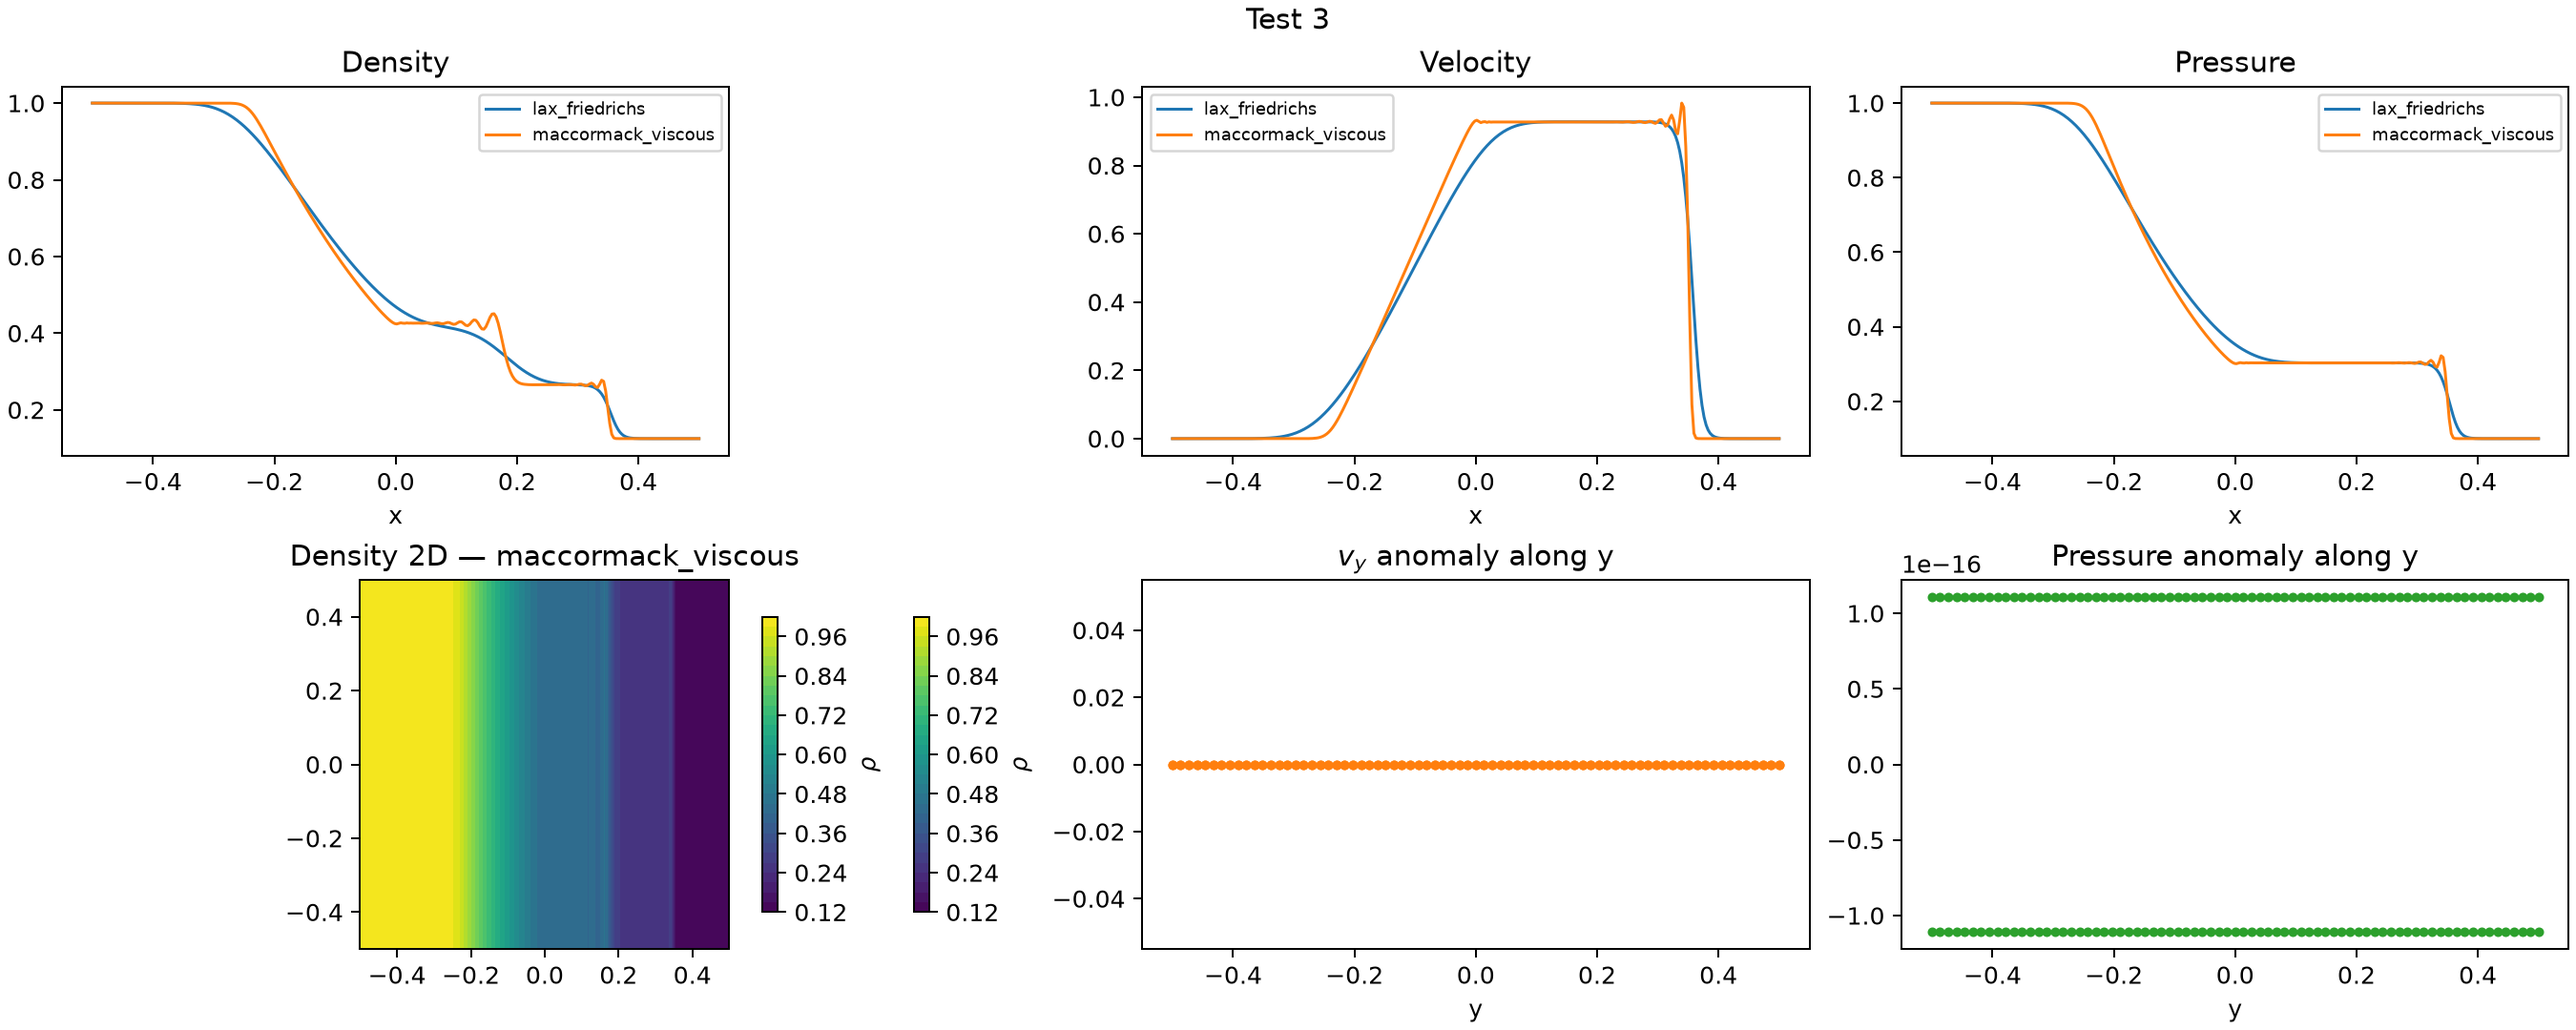
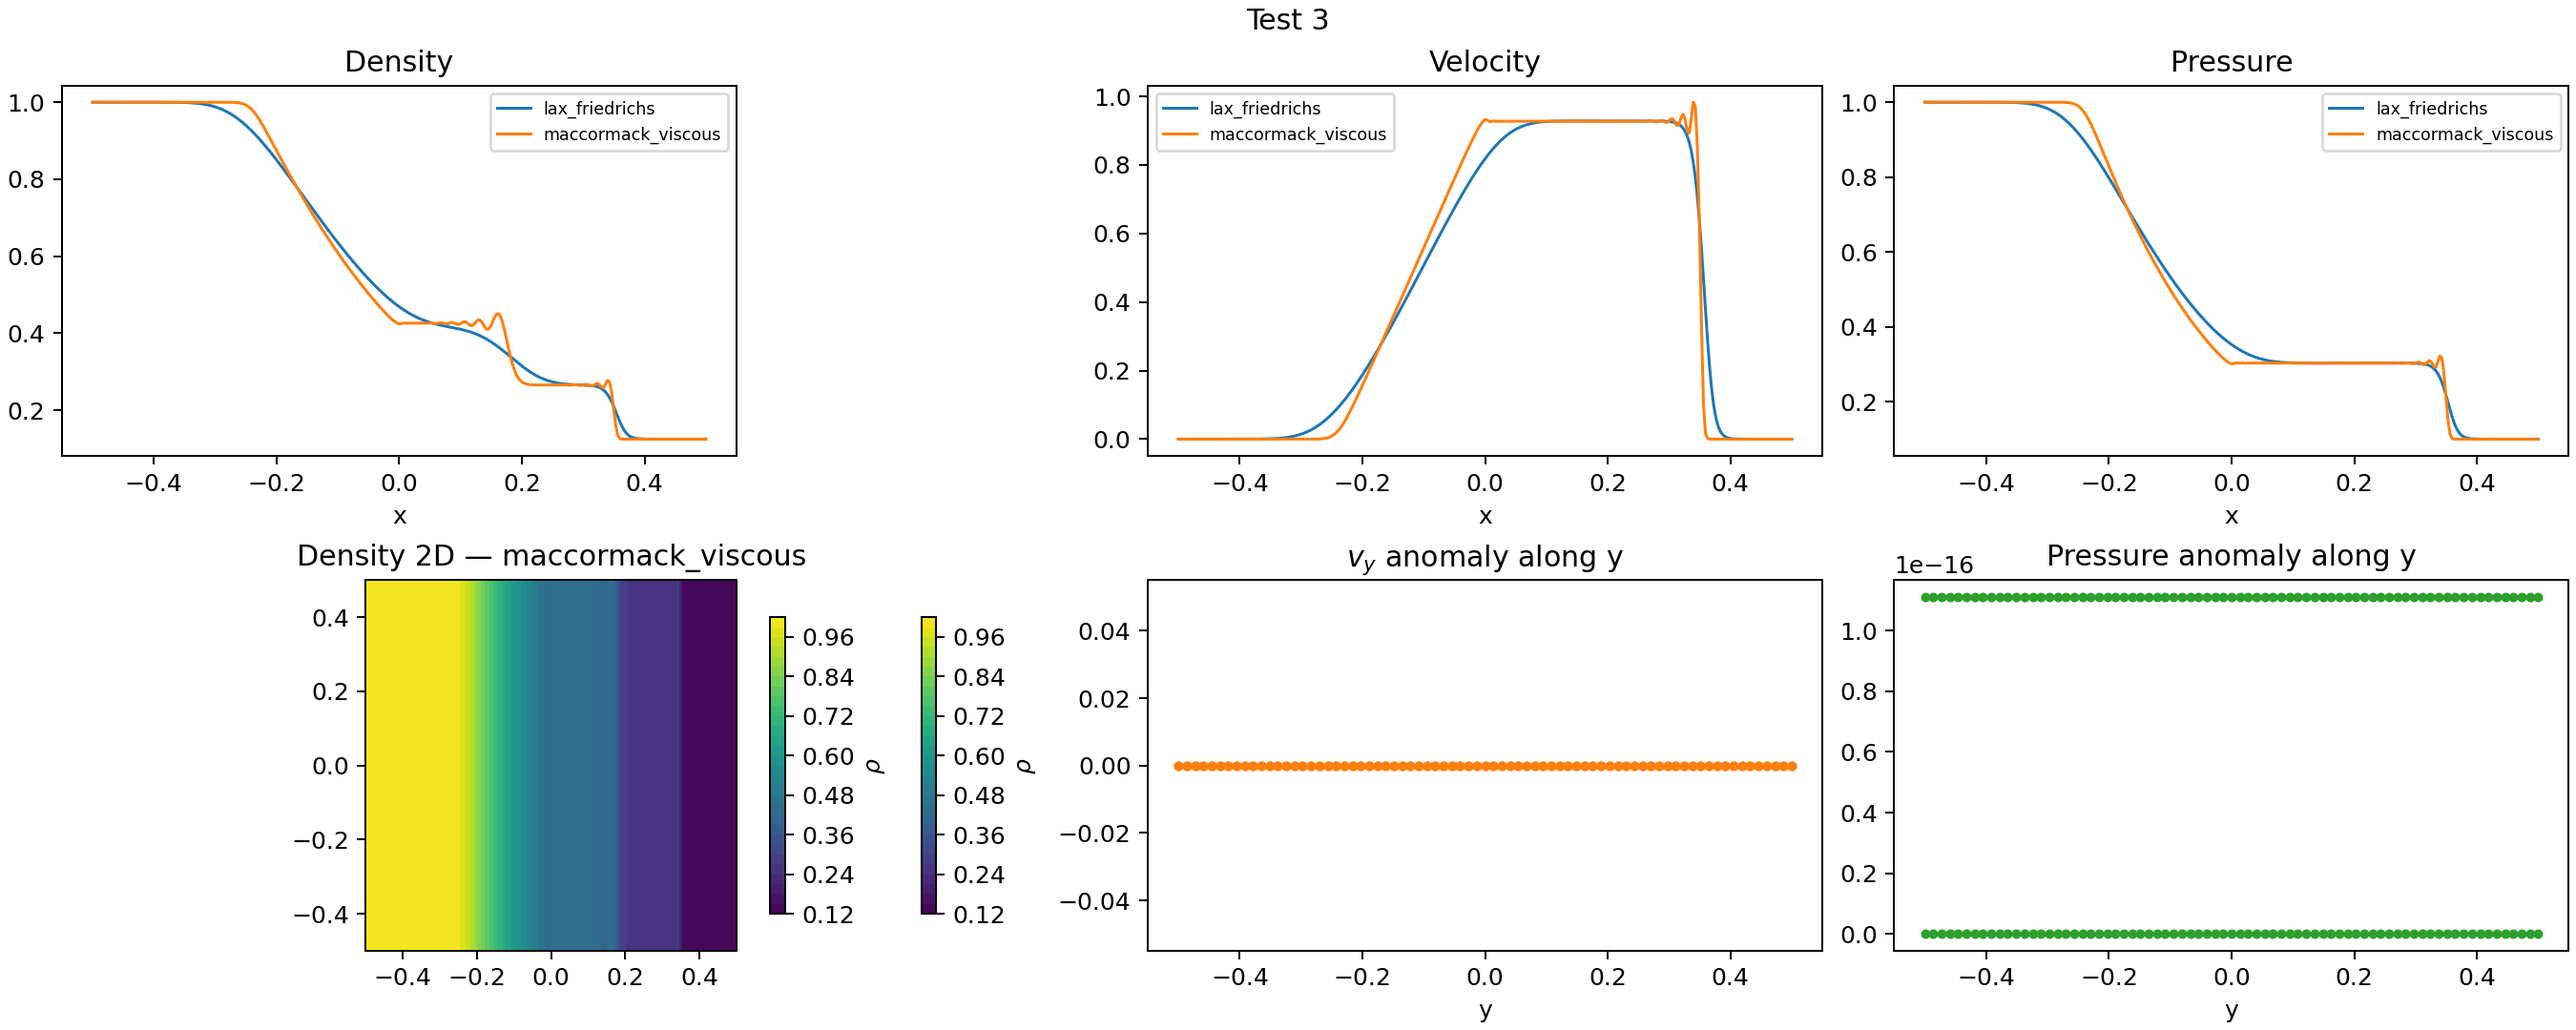
Document the SHASTA limiter fix in README and regenerate the affected figures

diff --git a/README.md b/README.md
@@ -339,6 +339,7 @@ What the numbers say:
 
 - **The pressure never changes** (`p = 1` everywhere) and the flow stays at rest (`u = v = 0`, `M = 0` everywhere). The contact at `x = 0.5` is *equal-pressure and stationary*, so it generates no wave and nothing travels to the reflecting wall at `x = 1`.
 - The only numerical feature is the **smearing of the contact by the artificial viscosity**. Lax–Friedrichs spreads the density jump over 44 cells (0.147 in physical units); at `x = 0.5` the density sits at 0.667 instead of the correct 1.0 or 0.3333. MacCormack and MacCormack-with-viscosity keep the contact essentially sharp (width 0), SHASTA keeps it to 6 cells.
+- **SHASTA and the zero-gradient walls.** The limiter of equation (46) uses a three-cell sign test, `sign(prev) == sign(cur) == sign(nxt)`. A zero-gradient wall makes the ghost row identical to the first physical row, so the interface difference there is exactly 0; the original code read that zero as "opposite sign", failed the test at the first interior interface and forced the limited difference to zero. The strong diffusion of the boundary row could then no longer be cancelled by anti-diffusion and the density overshoot leaked several rows into the domain — visible as white fringes along the top and bottom of the SHASTA panel. A zero neighbour is now treated as "no sign information": it is skipped in the sign test and dropped from the magnitude constraint. The overshoot drops from 0.43 % (`rho_min = 0.32990`) to 0.08 % (`rho_min = 0.33306`) while every other scheme and the contact width are unchanged.
 - The measured spreading matches the diffusive estimate `sqrt(nu*t)`: with `nu ~ cfl*a*dx/2 = 7.9e-4` this gives `sqrt(nu*T) = 0.0126`, and the 44-cell width corresponds to roughly `2*sqrt(nu*T)/dx = 7.6` cells — the same order, so the LF contact width is pure first-order diffusion, not a scheme error.
 - The solution stays **exactly uniform in y** (`max |rho - mean_y(rho)| = 7.7e-15`, `max |v| = 0`), which confirms the 2D boundary handling introduces no spurious transverse structure for this 1D-in-y problem.
 
